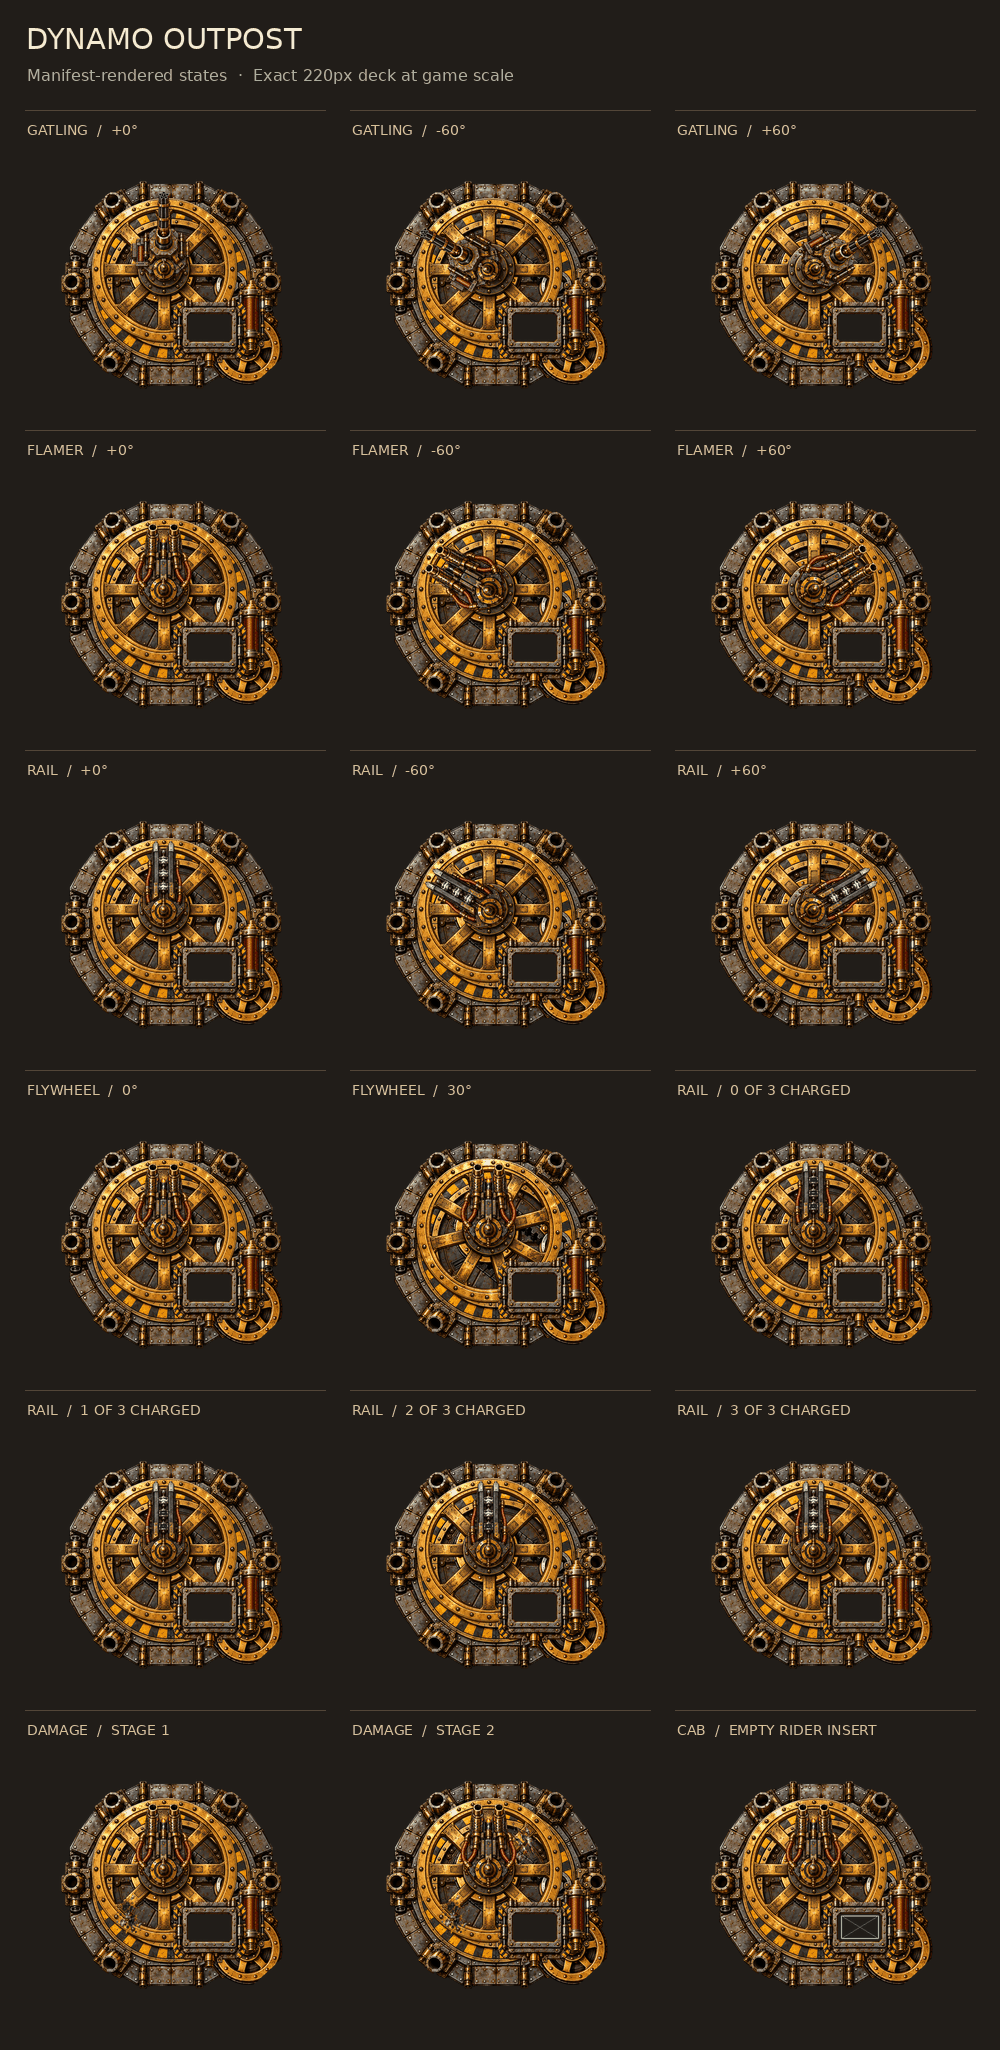
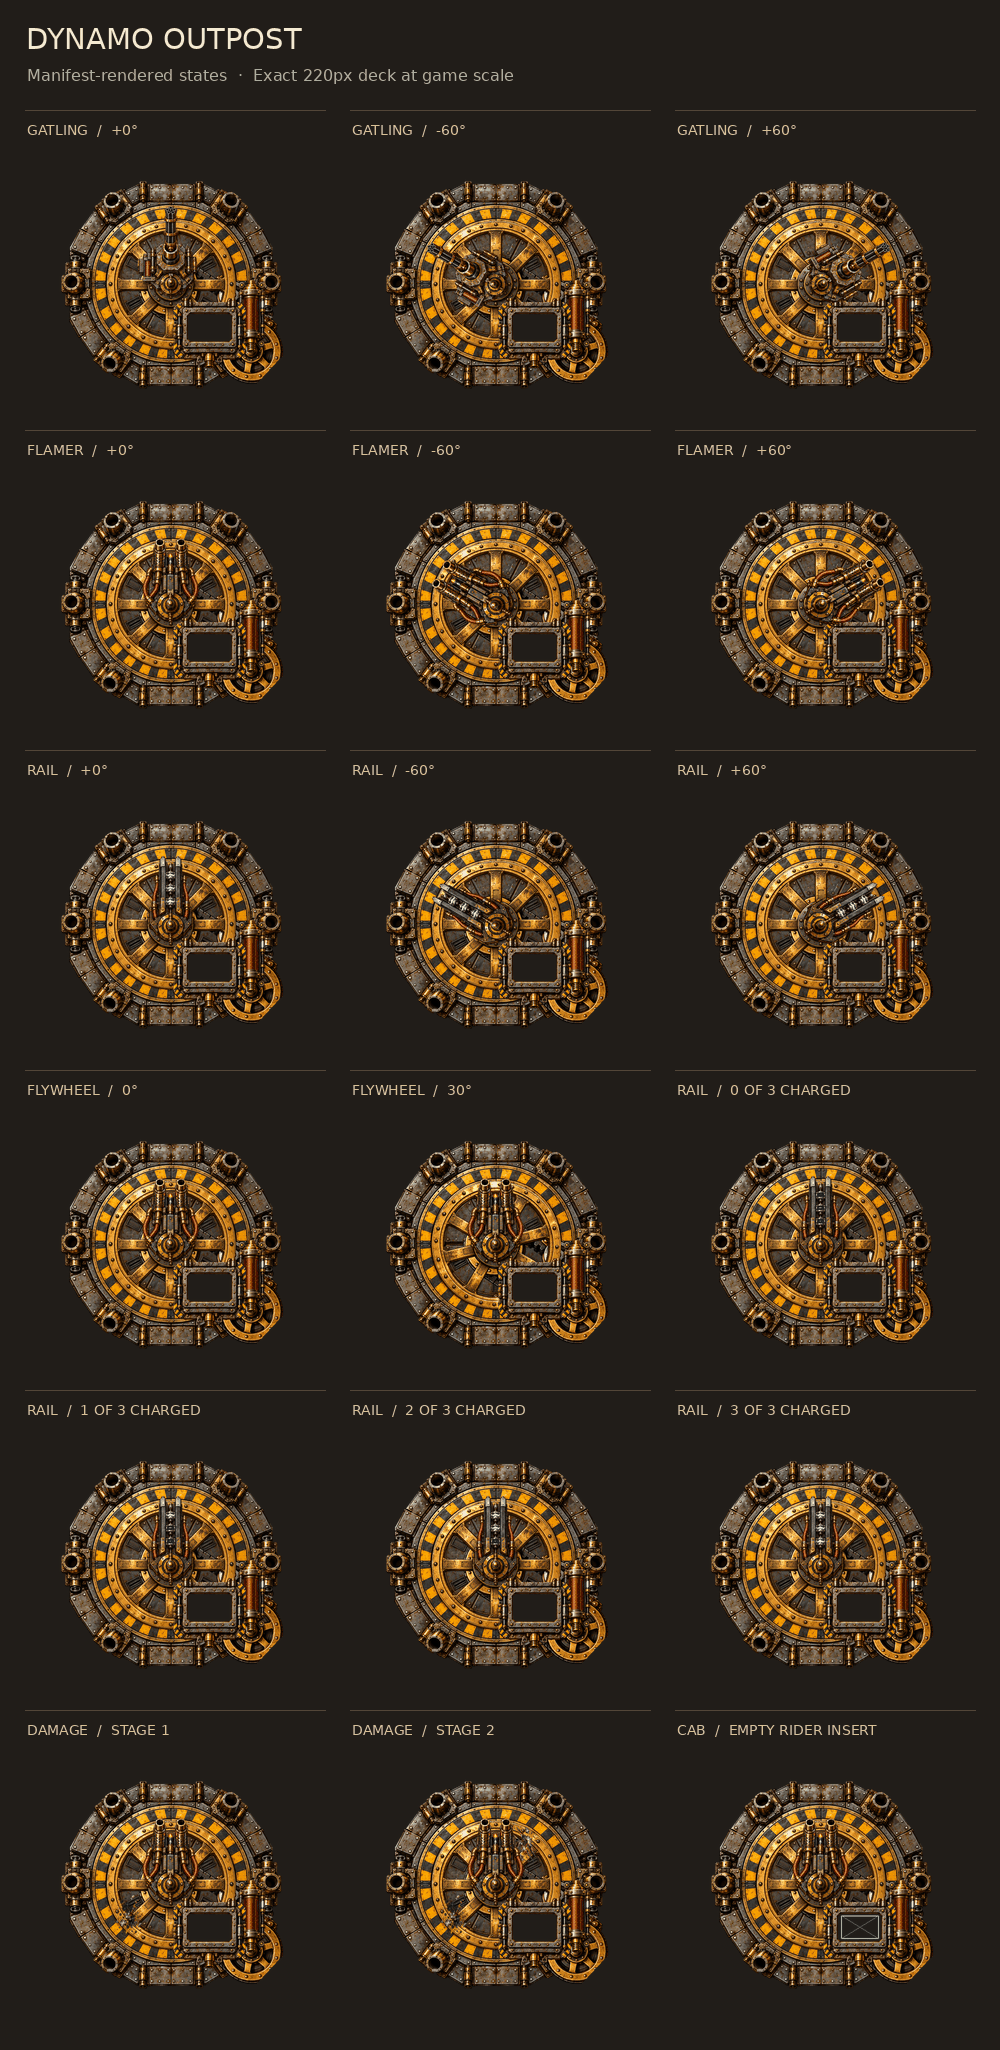
Outpost: center the wheel and turret within the hazard ring

diff --git a/public/td/outpost/NOTES.md b/public/td/outpost/NOTES.md
@@ -20,7 +20,7 @@ under `docs/towerdefense/concept/codex/outpost/`.
 Coordinates are absolute assembled rest-frame pixels; inherit parent transforms.
 Positive aim angles are clockwise, zero points up. The 520px frame provides
 rotation padding around the 440px deck footprint (2×220px game size). Render
-exactly one weapon group. Every head pivots about [246,230], as does the flywheel;
+exactly one weapon group. Every head pivots about [260,260], as does the concentric flywheel;
 heads parent to the fixed deck, not the spinning wheel. The Gatling child inherits
 aim and rolls through its six axial sprite phases, not an in-plane aim rotation.
 Use `axialSpin.frames` with the shared part offset; each has a matching frame glow.
